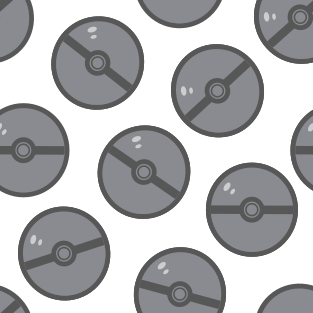
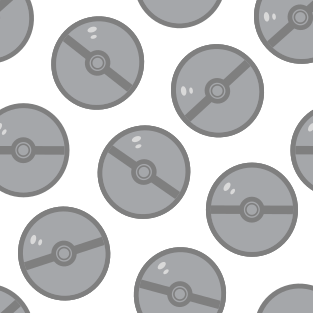
Update background image file

diff --git a/src/routes/root/root.module.css b/src/routes/root/root.module.css
@@ -8,7 +8,7 @@
 
 .callToAction {
   background-color: var(--secondary-2);
-  background-image: url(/public/pokeballPatternTransparent.png);
+  background-image: url(/public/pokeballPattern.png);
   padding: 10px;
   margin: 5px 5px;
   height: min-content;
